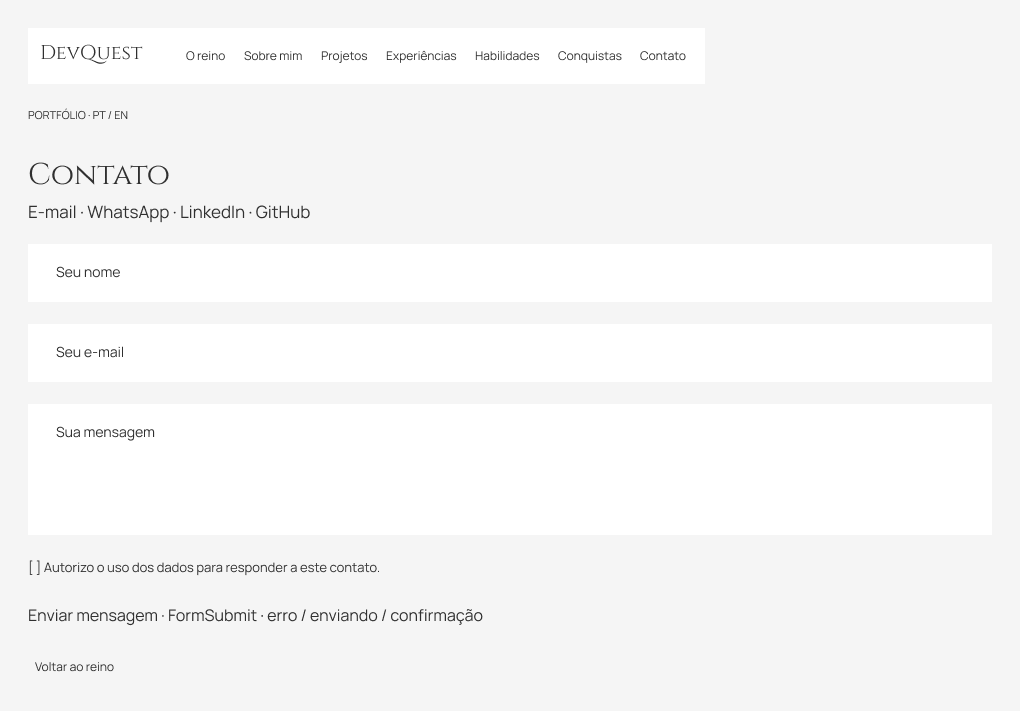
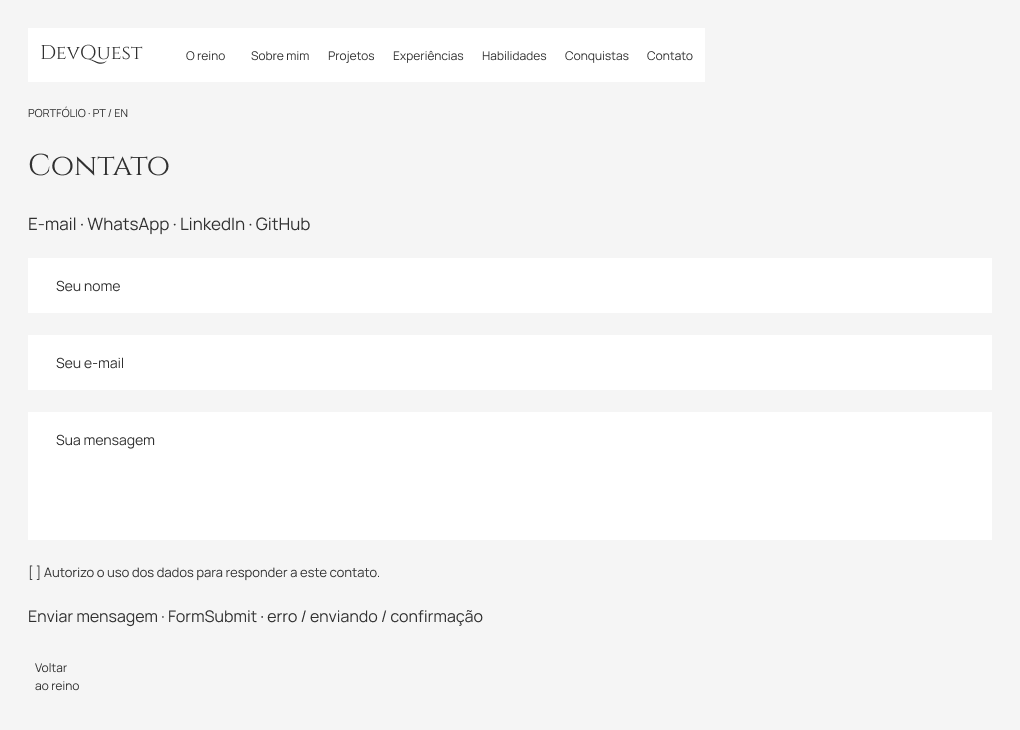
docs: finalize Figma typography and update prototype evidence

diff --git a/portfolio/docs/REQUIREMENTS.md b/portfolio/docs/REQUIREMENTS.md
@@ -15,13 +15,12 @@ Referência: LABORATÓRIO 01 - Portfólio Profissional, fornecido pelo aluno. A 
 | Responsividade | Desktop, tablet e celular | Sete telas verificadas em 320, 390 e 1440 pixels, sem rolagem horizontal |
 | Hospedagem gratuita | GitHub Pages no endereço já usado no perfil | Publicação por GitHub Actions |
 | README e instruções | Instalação, scripts, APIs, estrutura, demonstração, testes e créditos | Documentação na pasta `portfolio` do repositório de perfil |
-| Protótipo no Figma | Sete telas desktop e uma mobile, com navegação entre telas | Arquivo criado na equipe pessoal; revisão final de tipografia pendente por limite do plano Starter |
+| Protótipo no Figma | Sete telas desktop e uma mobile, com navegação entre telas | Oito telas revisadas; altura automática dos textos, contêineres adaptáveis e rótulos corrigidos; acesso público de visualização confirmado |
 
 ## Pendências de entrega
 
 1. Conferir a chegada da mensagem real de teste na caixa de entrada. A ativação foi confirmada pelo aluno e a API aceitou o envio, mas isso não comprova entrega na caixa de entrada.
-2. Finalizar o ajuste de altura dos textos no Figma, especialmente no perfil da tela inicial. O limite de chamadas do plano Starter interrompeu a correção. Isso não afeta o site, cujas telas foram verificadas separadamente.
-3. Confirmar, antes da apresentação, se o professor exige algum item adicional fora do PDF enviado. Não foram inventados data exata do evento, certificado ou foto da premiação.
+2. Confirmar, antes da apresentação, se o professor exige algum item adicional fora do PDF enviado. Não foram inventados data exata do evento, certificado ou foto da premiação.
 
 ## Evidências
 
@@ -31,4 +30,6 @@ Referência: LABORATÓRIO 01 - Portfólio Profissional, fornecido pelo aluno. A 
 - [Projetos](screenshots/projects-1440.png)
 - [Contato mobile](screenshots/contact-390.png)
 - [Wireframe de contato](screenshots/wireframe-contact.png)
+- [Wireframe inicial corrigido](screenshots/wireframe-world.png)
+- [Wireframe móvel corrigido](screenshots/wireframe-world-mobile.png)
 - [Relatório dos testes](TESTING.md)

diff --git a/portfolio/docs/TESTING.md b/portfolio/docs/TESTING.md
@@ -31,6 +31,8 @@ As mensagens dos testes automatizados são interceptadas. Esses testes **não co
 
 Em 13/10/2026, o GitHub Pages foi verificado com imagens carregadas e sem erros de execução. O primeiro envio real informou ativação pendente. Após Mateus confirmar a ativação, um segundo envio pelo formulário público retornou HTTP 200, `success: "true"` e `The form was submitted successfully.`. A interface exibiu o aceite do serviço. A chegada na caixa de entrada ainda precisa ser conferida pelo destinatário.
 
-## Limite do protótipo
+## Revisão do protótipo
 
-O site foi inspecionado por capturas de tela. O Figma é um artefato separado: tem oito telas e sessenta ligações de navegação, mas o ajuste final de altura de textos foi interrompido pelo limite do plano Starter. A imagem do wireframe de contato foi revisada; não considerar todas as telas do Figma aprovadas visualmente.
+O Figma é um artefato separado, com oito telas e sessenta ligações de navegação. Em 13/10/2026, a revisão foi concluída pelo editor normal: aplicada altura automática aos 141 textos e largura automática aos rótulos que quebravam palavras. Os contêineres acompanham o conteúdo. As sete telas desktop e a tela mobile foram inspecionadas individualmente, sem sobreposição ou corte de textos nas capturas revisadas.
+
+As imagens de início desktop, início mobile e contato foram exportadas diretamente do arquivo corrigido. O compartilhamento está configurado como "Qualquer pessoa pode visualizar". Esta revisão de tipografia não altera os destinos de navegação nem o código do site.

diff --git a/portfolio/README.md b/portfolio/README.md
@@ -136,13 +136,17 @@ O workflow `.github/workflows/portifolio-pages.yml`, na branch `main`, instala a
 
 ### Sprint 1: wireframes
 
-O [arquivo editável do Figma](https://www.figma.com/design/A1ZWmBh1MmZkDaChWUurL0) contém sete telas desktop, uma mobile e navegação entre as seções. A revisão final de altura de alguns textos ficou pendente por limite do plano Starter. Não considerar o protótipo integralmente aprovado antes desse ajuste.
+O [arquivo editável do Figma](https://www.figma.com/design/A1ZWmBh1MmZkDaChWUurL0) contém sete telas desktop, uma mobile e navegação entre as seções. As oito telas foram revisadas visualmente em 13/10/2026: textos com altura automática, contêineres adaptáveis e rótulos de navegação sem palavras quebradas. O compartilhamento permite visualização por qualquer pessoa com o link.
+
+| Wireframe desktop | Wireframe mobile |
+| --- | --- |
+| ![Wireframe inicial corrigido](docs/screenshots/wireframe-world.png) | ![Wireframe móvel corrigido](docs/screenshots/wireframe-world-mobile.png) |
 
 ![Wireframe de contato](docs/screenshots/wireframe-contact.png)
 
 ### Sprints 2 e 3
 
-Interface funcional, APIs, testes, documentação, capturas e build para publicação. Consulte [REQUIREMENTS.md](docs/REQUIREMENTS.md) para o acompanhamento fiel, incluindo as pendências do formulário e do Figma.
+Interface funcional, APIs, testes, documentação, capturas e build para publicação. Consulte [REQUIREMENTS.md](docs/REQUIREMENTS.md) para o acompanhamento dos requisitos e as conferências restantes antes da entrega.
 
 ## Qualidade
 
